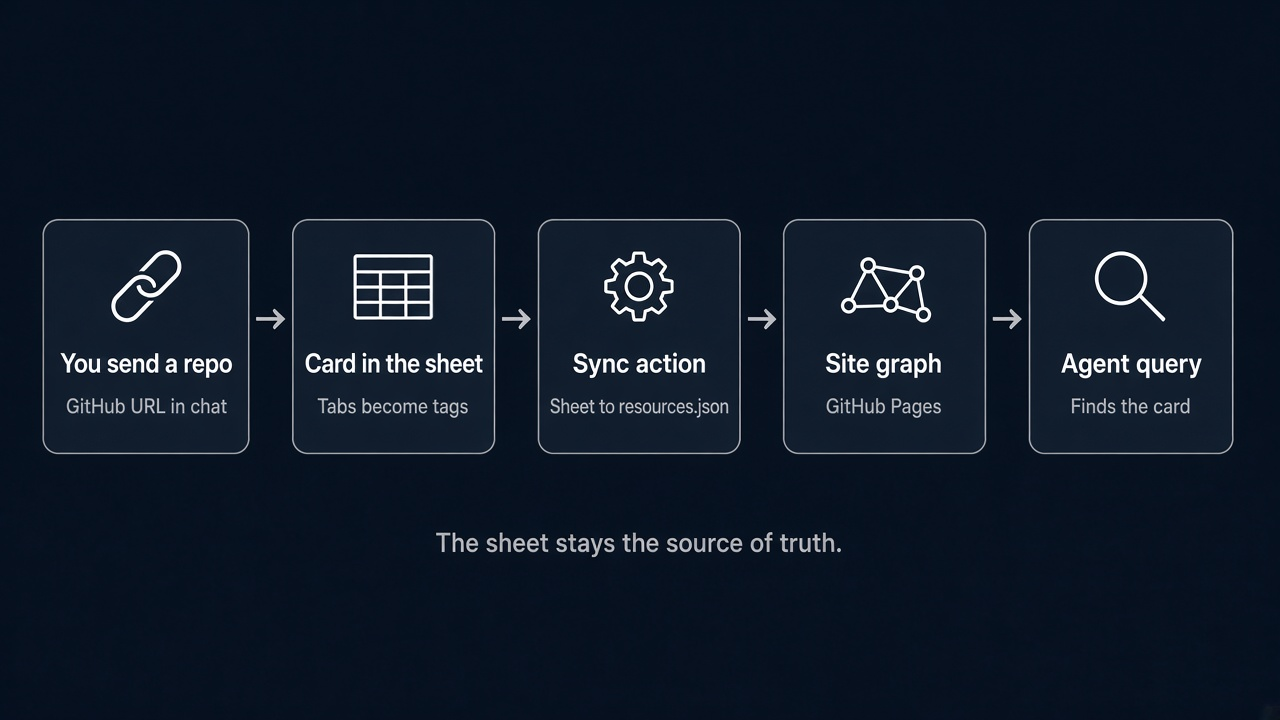
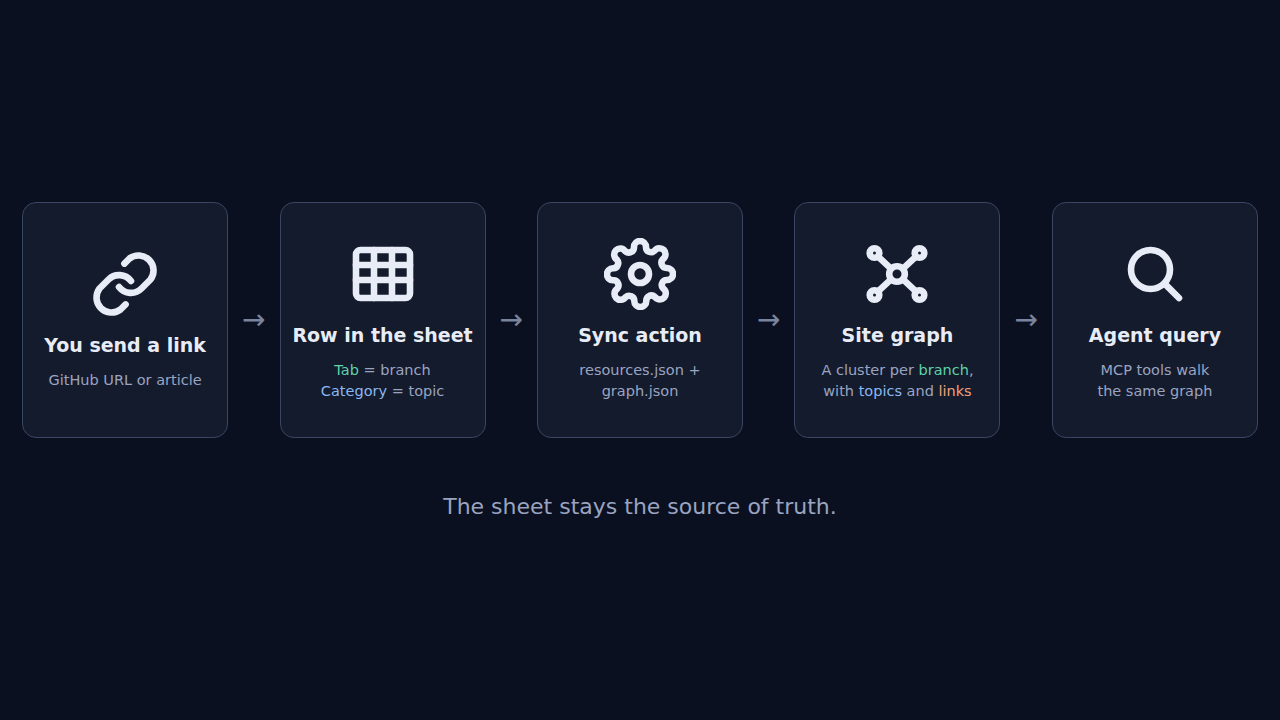
Phone layout, sharp rendering on high-DPI screens, refreshed README images
- Pack branch clusters in the viewport's shape so portrait phones get a
  tall layout instead of a squeezed wide one
- On phones, fit the focused nodes into the strip above the detail
  sheet (now 45vh) and only label topics whose ring has room on screen
- Drop the pixelRatio=1 workaround: hit-testing is ours and in CSS px,
  so vis can render at the device pixel ratio again (no more blur)
- Touch devices get a tap/pinch hint
- README: new overview and branch screenshots, redrawn flow diagram

Claude-Session: https://claude.ai/code/session_01CaiHu3gPBUYCq6oZ7FcEK8

diff --git a/index.html b/index.html
@@ -425,7 +425,7 @@
         display: none;
         position: fixed;
         bottom: 0; left: 0; right: 0;
-        max-height: 55vh;
+        max-height: 45vh;
         border-left: none;
         border-top: 1px solid var(--border);
         border-radius: 10px 10px 0 0;
@@ -495,6 +495,10 @@
       <div id="graph-container"></div>
       <div id="graph-status">Loading graph…</div>
       <div id="graph-hint">Click a branch to open it · Scroll to zoom · Drag to pan</div>
+      <script>
+        if (matchMedia('(pointer: coarse)').matches)
+          document.getElementById('graph-hint').textContent = 'Tap a branch to open it · Pinch to zoom';
+      </script>
     </div>
 
     <aside id="right-panel">
@@ -596,6 +600,7 @@
     // view id of a resource as drawn under a given parent (topic or branch)
     const resourceView = (rid, parentId) => `${rid}@${branchSlug(branchOfData(parentId))}`;
     const labelAbove = new Set();    // every other sibling's label goes above its dot
+    const slotArc = new Map();       // branch id -> layout units between ring slots
     const branchesOf = did => [...new Set((viewsOf.get(did) || []).map(v => views.get(v).branch))];
 
     // ── Layout ──────────────────────────────────────────────────
@@ -603,7 +608,9 @@
     // inner ring, each topic's resources on an outer ring inside the topic's
     // slice. Clusters are packed on a spiral, biggest first. Positions never
     // change when branches open or close, so the map stays familiar.
-    function computeLayout(viewWidth) {
+    function computeLayout(viewWidth, viewHeight) {
+      // pack clusters into roughly the viewport's shape (tall on phones)
+      const aspect = Math.min(2.2, Math.max(0.6, (viewHeight || 600) / (viewWidth || 900)));
       const pos = new Map();
       const clusters = sortedBranches().map(b => {
         const topics = kids(b.id, 'topic').map(t => ({ id: t, w: 1 + 0.4 * kids(t, 'resource').length }))
@@ -637,7 +644,7 @@
             const steps = Math.max(12, Math.floor(2 * Math.PI * r / 50));
             for (let i = 0; i < steps; i++) {
               const a = (i / steps) * 2 * Math.PI + r * 0.013;
-              const x = r * Math.cos(a), y = r * Math.sin(a) * 0.8;
+              const x = r * Math.cos(a), y = r * Math.sin(a) * aspect;
               if (centers.every(o => Math.hypot(o.x - x, o.y - y) >= o.R + c.R + 40)) {
                 c.x = x; c.y = y; centers.push(c);
                 return;
@@ -646,19 +653,21 @@
           }
         });
         const xs = clusters.flatMap(c => [c.x - c.R, c.x + c.R]);
-        return Math.max(...xs) - Math.min(...xs);
+        const ys = clusters.flatMap(c => [c.y - c.R, c.y + c.R]);
+        return { w: Math.max(...xs) - Math.min(...xs), h: Math.max(...ys) - Math.min(...ys) };
       };
 
       // Labels are screen-px, so their size in layout units depends on the
       // overview zoom, which depends on the packing: pack, estimate the zoom,
       // reserve room for each label, pack again.
-      const width = pack();
-      const overviewScale = (viewWidth || 900) * 0.88 / width;
+      const size = pack();
+      const overviewScale = 0.88 * Math.min((viewWidth || 900) / size.w, (viewHeight || 600) / size.h);
       clusters.forEach(c => { c.R = Math.max(c.ring, (c.labelPx / 2 + 16) / overviewScale); });
       pack();
 
       clusters.forEach(c => {
         pos.set(c.b.id, { x: c.x, y: c.y });
+        slotArc.set(c.b.id, c.items.length ? 2 * Math.PI * c.r1 / c.items.length : Infinity);
         // centre the first slot at 12 o'clock, away from the label under the hub
         let a = -Math.PI / 2 - (c.items.length ? (c.items[0].w / c.total) * Math.PI : 0);
         let directCount = 0;
@@ -720,7 +729,7 @@
       container.style.width = area.clientWidth + 'px';
       container.style.height = area.clientHeight + 'px';
 
-      const layout = computeLayout(area.clientWidth);
+      const layout = computeLayout(area.clientWidth, area.clientHeight);
       visNodes = new vis.DataSet([...views.values()].map(v => ({ ...baseNode(v), ...(layout.get(v.vid) || { x: 0, y: 0 }) })));
       visEdges = new vis.DataSet(graph.edges.map((e, i) => {
         const to = e.type === 'HAS_RESOURCE' ? resourceView(e.target, e.source) : e.target;
@@ -738,20 +747,11 @@
         nodes: { shadow: { enabled: true, color: 'rgba(0,0,0,.35)', size: 8, x: 0, y: 2 } },
         edges: { smooth: false, selectionWidth: 0, hoverWidth: 0 },
         physics: false,
-        // selection and hover are handled by hitTest(); vis's own would
-        // disagree with it (see the pixelRatio note below)
+        // selection and hover go through hitTest(), which works in CSS px and
+        // so does not depend on vis's canvas resolution (see session insights)
         interaction: { hover: false, selectable: false, dragView: true, zoomView: true, dragNodes: true },
         layout: { improvedLayout: false },
       });
-
-      // vis-network's hit detection breaks when its canvas resolution differs
-      // from the CSS-grid cell (see docs/session-insights). Pin pixelRatio to 1
-      // and do our own hit-testing below.
-      try {
-        net.canvas.pixelRatio = 1;
-        net.canvas._getPixelRatio = () => 1;
-        net.canvas.setSize(area.clientWidth + 'px', area.clientHeight + 'px');
-      } catch (e) { /* hit-testing below does not depend on it */ }
 
       net.on('zoom', () => { scale = net.getScale(); scheduleRender(); });
       net.on('animationFinished', () => { scale = net.getScale(); scheduleRender(); });
@@ -887,7 +887,9 @@
         const rule = LABEL[n.type];
         // in a branch view, resources under a topic stay unlabelled until
         // zoomed in; their topic label already says what they are
-        const nearLabel = (near && near.has(v.vid) && !(focusType === 'branch' && n.type === 'resource')) ||
+        // ...and a topic only gets a label when its ring has room on screen
+        const roomy = n.type !== 'topic' || n.count >= LABEL.topic.big || slotArc.get(n.branch) * sc >= 35;
+        const nearLabel = (near && near.has(v.vid) && roomy && !(focusType === 'branch' && n.type === 'resource')) ||
           v.did === hoverId;
         const showLabel = !dim && (
           sc >= rule.from ||
@@ -941,6 +943,16 @@
       const from = { position: net.getViewPosition(), scale: net.getScale() };
       net.fit({ nodes, animation: false });
       const target = { position: net.getViewPosition(), scale: Math.min(net.getScale() * 0.88, maxScale) };
+      // On phones the detail sheet covers the bottom of the canvas: fit the
+      // nodes into the strip above it.
+      const sheet = document.getElementById('right-panel');
+      const canvasH = document.getElementById('graph-area').clientHeight;
+      const covered = sheet.classList.contains('mobile-open') && getComputedStyle(sheet).position === 'fixed'
+        ? Math.min(sheet.offsetHeight, canvasH * 0.7) : 0;
+      if (covered) {
+        target.scale *= (canvasH - covered) / canvasH;
+        target.position = { x: target.position.x, y: target.position.y + covered / 2 / target.scale };
+      }
       net.moveTo({ ...from, animation: false });
       net.moveTo({ ...target, animation: duration ? { duration, easingFunction: 'easeInOutQuad' } : false });
       scale = target.scale;

diff --git a/README.md b/README.md
@@ -16,6 +16,10 @@ Each branch is its own cluster: topics ring the hub and their resources fan out 
 
 ![Graph overview: one cluster per sheet tab](docs/graph.png)
 
+Opening a branch (here **Tools**) fans out its topics and their links; the right panel lists the branch's contents:
+
+![Tools branch opened: topics around the hub, links around each topic](docs/graph-branch.png)
+
 ## End-to-End Flow
 
 ![Process flow: repo URL → Sheet card → sync action → site graph → MCP query](docs/flow.png)
